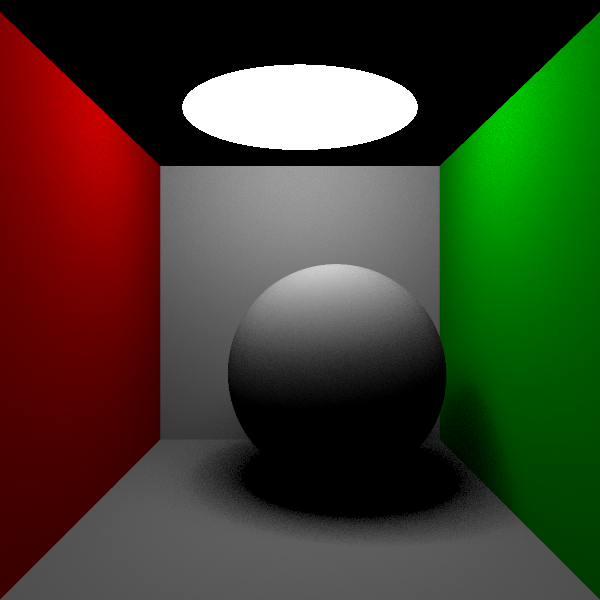
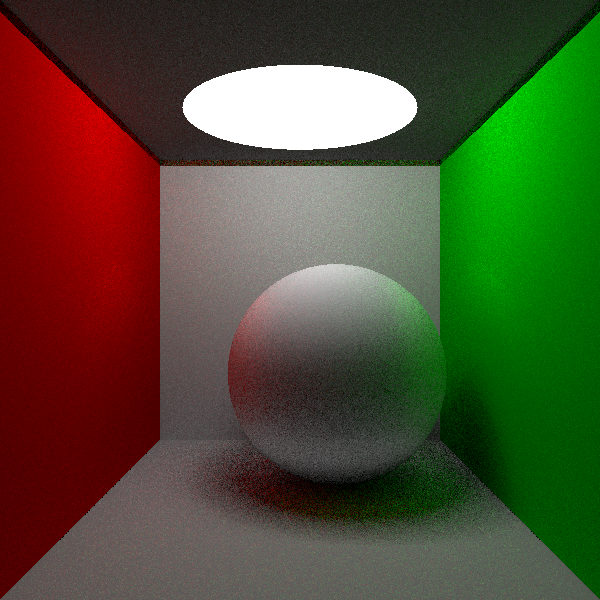
gi contribution test

diff --git a/RenderProcess.py b/RenderProcess.py
@@ -244,7 +244,7 @@ class RenderProcess(multiprocessing.Process):
 
 				indirectColor = indirectColor / self.indirectSamples * 2 * math.pi
 				matColor = currentObj.material.diffuseColor
-				hitPointColor = hitPointColor + indirectColor.colorMult(matColor)
+				hitPointColor = hitPointColor + indirectColor.colorMult(matColor) * 0.3 #arbitrary contribution number
 
 		return hitPointColor
 
